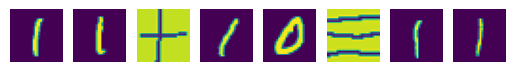
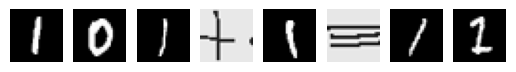
[DOC] change installation, imgs in examples

diff --git a/abl/reasoning/kb.py b/abl/reasoning/kb.py
@@ -470,8 +470,10 @@ class PrologKB(KBBase):
         
         try:
             import pyswip
-        except IndexError:
-            print("A Prolog-based knowledge base is used. You need to install Swi-Prolog from https://www.swi-prolog.org/Download.html")
+        except (IndexError, ImportError):
+            print("A Prolog-based knowledge base is in use. Please install Swi-Prolog \
+                   using the command 'sudo apt-get install swi-prolog' for Linux users, \
+                   or download it from https://www.swi-prolog.org/Download.html for Windows and Mac users.")
         
         self.prolog = pyswip.Prolog()
         self.pl_file = pl_file

diff --git a/docs/Examples/HED.rst b/docs/Examples/HED.rst
@@ -101,28 +101,28 @@ As illustrations, we show four equations in the training dataset:
     for i, x in enumerate(true_train_equation_with_length_5[0]):
         plt.subplot(1, 5, i+1)
         plt.axis('off') 
-        plt.imshow(x.transpose(1, 2, 0))
+        plt.imshow(x.squeeze(), cmap='gray')
     plt.show()
     print(f"First true equation with length 8 in the training dataset:")
     for i, x in enumerate(true_train_equation_with_length_8[0]):
         plt.subplot(1, 8, i+1)
         plt.axis('off') 
-        plt.imshow(x.transpose(1, 2, 0))
+        plt.imshow(x.squeeze(), cmap='gray')
     plt.show()
-    
+
     false_train_equation_with_length_5 = false_train_equation[5]
     false_train_equation_with_length_8 = false_train_equation[8]
     print(f"First false equation with length 5 in the training dataset:")
     for i, x in enumerate(false_train_equation_with_length_5[0]):
         plt.subplot(1, 5, i+1)
         plt.axis('off') 
-        plt.imshow(x.transpose(1, 2, 0))
+        plt.imshow(x.squeeze(), cmap='gray')
     plt.show()
     print(f"First false equation with length 8 in the training dataset:")
     for i, x in enumerate(false_train_equation_with_length_8[0]):
         plt.subplot(1, 8, i+1)
         plt.axis('off') 
-        plt.imshow(x.transpose(1, 2, 0))
+        plt.imshow(x.squeeze(), cmap='gray')
     plt.show()
 
 
@@ -135,8 +135,6 @@ Out:
     .. image:: ../img/hed_dataset1.png
         :width: 300px
 
-
-Out:
     .. code:: none
         :class: code-out
 
@@ -145,8 +143,6 @@ Out:
     .. image:: ../img/hed_dataset2.png
         :width: 480px
 
-
-Out:
     .. code:: none
         :class: code-out
 
@@ -155,8 +151,6 @@ Out:
     .. image:: ../img/hed_dataset3.png
         :width: 300px
 
-
-Out:
     .. code:: none
         :class: code-out
 

diff --git a/docs/Examples/HWF.rst b/docs/Examples/HWF.rst
@@ -102,9 +102,9 @@ illstrations:
     for i, x in enumerate(X_1000):
         plt.subplot(1, len(X_1000), i+1)
         plt.axis('off') 
-        plt.imshow(x.numpy().transpose(1, 2, 0))
+        plt.imshow(x.squeeze(), cmap='gray')
     plt.show()
-    print(f"gt_pseudo_label in the 1001st data example (a list of pseudo-labels): {gt_pseudo_label_1000}")
+    print(f"gt_pseudo_label in the 1001st data example (a list of ground truth pseudo-labels): {gt_pseudo_label_1000}")
     print(f"Y in the 1001st data example (the computed result): {Y_1000}")
     print()
     X_3000, gt_pseudo_label_3000, Y_3000 = train_X[3000], train_gt_pseudo_label[3000], train_Y[3000]
@@ -112,9 +112,9 @@ illstrations:
     for i, x in enumerate(X_3000):
         plt.subplot(1, len(X_3000), i+1)
         plt.axis('off') 
-        plt.imshow(x.numpy().transpose(1, 2, 0))
+        plt.imshow(x.squeeze(), cmap='gray')
     plt.show()
-    print(f"gt_pseudo_label in the 3001st data example (a list of pseudo-labels): {gt_pseudo_label_3000}")
+    print(f"gt_pseudo_label in the 3001st data example (a list of ground truth pseudo-labels): {gt_pseudo_label_3000}")
     print(f"Y in the 3001st data example (the computed result): {Y_3000}")
 
 
@@ -125,7 +125,7 @@ Out:
         X in the 1001st data example (a list of images):
     
     .. image:: ../img/hwf_dataset1.png
-        :width: 300px
+        :width: 210px
 
     .. code:: none
         :class: code-out
@@ -139,7 +139,7 @@ Out:
         X in the 3001st data example (a list of images):
     
     .. image:: ../img/hwf_dataset2.png
-        :width: 500px
+        :width: 350px
 
     .. code:: none
         :class: code-out

diff --git a/docs/Examples/MNISTAdd.rst b/docs/Examples/MNISTAdd.rst
@@ -104,10 +104,10 @@ training set, we have:
     print(f"X in the first data example (a list of two images):")
     plt.subplot(1,2,1)
     plt.axis('off') 
-    plt.imshow(X_0[0].numpy().transpose(1, 2, 0))
+    plt.imshow(X_0[0].squeeze(), cmap='gray')
     plt.subplot(1,2,2)
     plt.axis('off') 
-    plt.imshow(X_0[1].numpy().transpose(1, 2, 0))
+    plt.imshow(X_0[1].squeeze(), cmap='gray')
     plt.show()
     print(f"gt_pseudo_label in the first data example (a list of two ground truth pseudo-labels): {gt_pseudo_label_0}")
     print(f"Y in the first data example (their sum result): {Y_0}")
@@ -120,10 +120,11 @@ Out:
         X in the first data example (a list of two images):
     
     .. image:: ../img/mnist_add_datasets.png
-        :width: 400px
+        :width: 200px
 
 
-    .. parsed-literal::
+    .. code:: none
+        :class: code-out
 
         gt_pseudo_label in the first data example (a list of two ground truth pseudo-labels): [7, 5]
         Y in the first data example (their sum result): 12

diff --git a/docs/Overview/Installation.rst b/docs/Overview/Installation.rst
@@ -23,6 +23,12 @@ sequentially run following commands in your terminal/command line.
     $ cd ABL-Package
     $ pip install -v -e .
 
-(Optional) If the use of a `Prolog-based knowledge base <prolog>`_ is necessary, you will also need to install Swi-Prolog.
+(Optional) If the use of a :ref:`Prolog-based knowledge base <prolog>` is necessary, the installation of `Swi-Prolog <https://www.swi-prolog.org/>`_ is also required:
 
-`http://www.swi-prolog.org/build/unix.html <http://www.swi-prolog.org/build/unix.html>`_
+For Linux users:
+
+.. code:: console
+
+    $ sudo apt-get install swi-prolog
+
+For Windows and Mac users, please refer to the `Swi-Prolog Download Page <https://www.swi-prolog.org/Download.html>`_.

diff --git a/docs/README.rst b/docs/README.rst
@@ -34,3 +34,13 @@ sequentially run following commands in your terminal/command line.
     $ git clone https://github.com/AbductiveLearning/ABL-Package.git
     $ cd ABL-Package
     $ pip install -v -e .
+
+(Optional) If the use of a :ref:`Prolog-based knowledge base <prolog>` is necessary, the installation of `Swi-Prolog <https://www.swi-prolog.org/>`_ is also required:
+
+For Linux users:
+
+.. code:: console
+
+    $ sudo apt-get install swi-prolog
+
+For Windows and Mac users, please refer to the `Swi-Prolog Download Page <https://www.swi-prolog.org/Download.html>`_.
